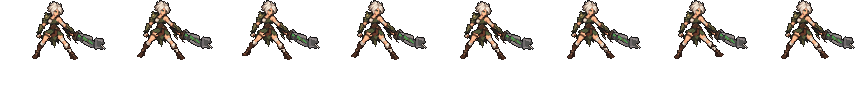
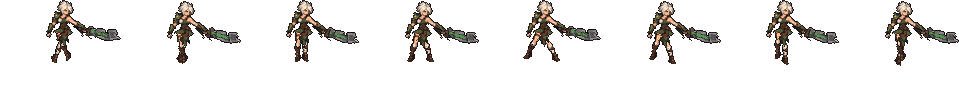
Riven's run after League's: hips under the skirt, a scissor stride of whole straight legs
The user: 「锐雯走路姿势不对啊」 - the round-2 run kept her wide idle stance with the legs barely turned. Now (League's run
rendered by tools/lol/native_pose.py as the guide): her hips brought 3 columns in each under her skirt, each leg (one
rigid piece from the picture) turned straight down and swung 24 degrees forward / back from its hip, the near leg
forward in frames 1-2 and back in 5-6, the far one the other way; the leg swinging forward lifted (its top under the
skirt), the body down as the stride opens, the upper body leaning 2 columns ahead, the blade held low and level ahead.
Riven only; ppu_hd --check OK; no loose pieces.

diff --git a/tools/art/rig_riven_hd.py b/tools/art/rig_riven_hd.py
@@ -40,10 +40,20 @@ BAND = 41                                    # legs start below this row
 # knee - a thigh and a lower leg turned apart - the knee showed a step). (hip, knee, sole) in design squares
 NEAR = ((15.5, 33.2), (9, 44.2), (3.5, 58.8))
 FAR = ((27.5, 34.5), (34.5, 45.5), (42, 59.3))
-# the run: her wide stance kept, a foot at a time swung out and up about its hip (the back foot kicking back, the front
-# one reaching forward), the body down a row as it lands; degrees (counter-clockwise on screen) of the near / far leg
-WALK = [(0, 0), (-5, 0), (-10, 0), (-5, 0), (0, 0), (0, 5), (0, 10), (0, 5)]
-RUN_BOB = [1, 0, 0, 0, 1, 0, 0, 0]
+# the run after League's (tools/lol/native_pose.py assets/source/riven/poses.json run; 「锐雯走路姿势不对啊」 - her
+# wide stance kept, the legs barely moved): her hips brought together under her skirt (she turns side-on to run) and
+# each straight leg swung forward and back as a whole from its hip - a scissor stride, the near leg forward in frames
+# 1-2 and back in 5-6, the far leg the other way, crossing just under the hem like a side view's. The leg swinging
+# forward is lifted (its top goes up under her skirt), the body comes down as the stride opens so the planted feet stay
+# on the ground, the blade held low ahead as League's. Degrees past straight down (counter-clockwise on screen = the
+# foot forward); the far leg's are the near leg's negated
+RUN_NEAR = [24, 13, 0, -13, -24, -13, 0, 13]
+NEAR_LIFT = [0, 0, 0, 0, 0, 2, 3, 2]
+FAR_LIFT = [0, 2, 3, 2, 0, 0, 0, 0]
+RUN_HIPS = (3, -3)                           # columns the near / far leg moves in under her skirt
+RUN_LEAN = 2                                 # columns her upper body leans ahead of her hips
+LEG_LEN = 26.0                               # hip to sole, design squares
+RUN_SWORD = [26, 24, 22, 24, 26, 24, 22, 24]
 
 
 def vertical(leg):
@@ -113,26 +123,31 @@ def make_rig(D):
     return R.Rig(D)
 
 
-def pose(rig, up=(0, 0), sword=0, whole=(0, 0), near=0, far=0, green=False):
+def pose(rig, up=(0, 0), sword=0, whole=(0, 0), near=0, far=0, green=False, lift=(0, 0), hips=(0, 0), lean=0):
     """up: the upper body moved - sideways with her hips and legs (a lunge slides her feet), down at most a row over
     them (breath; lower, the body sank into the legs); sword: degrees the sword arm turns about her shoulder
     (counter-clockwise raises it); whole: the whole figure; near / far: degrees a leg turns about its hip
-    (counter-clockwise on screen); green: the reforged blade."""
+    (counter-clockwise on screen); green: the reforged blade; lift: rows the near / far leg goes up (its top under
+    her skirt); hips: columns the near / far leg moves sideways under her skirt; lean: columns the upper body moves
+    ahead of the hips (the legs' tops stay under the skirt)."""
     D = rig.D
     wx, wy = whole[0] + up[0], whole[1]
     layers = []
-    for name, leg, ang in (("f", FAR, far), ("n", NEAR, near)):
+    for name, leg, ang, up_, hx in (("f", FAR, far, lift[1], hips[1]), ("n", NEAR, near, lift[0], hips[0])):
         for piece in ("_thigh", "_lower"):
-            layers.append((name + piece, dict(dx=wx, dy=wy, angle=ang, about=leg[0])))
-    ux, uy = wx, wy + min(up[1], 1)
+            layers.append((name + piece, dict(dx=wx + hx, dy=wy - up_, angle=ang, about=leg[0])))
+    ux, uy = wx + lean, wy + min(up[1], 1)
     layers.append(("upper", dict(dx=ux, dy=uy)))
     layers.append(("sword", dict(dx=ux, dy=uy, angle=sword, about=SHOULDER, src=D.green if green else None)))
     return R.compose(rig, layers)
 
 
 def run_frame(rig, i):
-    n, f = WALK[i]
-    return pose(rig, up=(1, RUN_BOB[i]), sword=15, near=n, far=f)
+    n, f = RUN_NEAR[i], -RUN_NEAR[i]
+    drop = int(round(LEG_LEN * (1 - np.cos(np.radians(abs(n))))))
+    return pose(rig, up=(1, 0), whole=(0, drop), sword=RUN_SWORD[i], near=vertical(NEAR) + n,
+                far=vertical(FAR) + f, lift=(NEAR_LIFT[i], FAR_LIFT[i]), hips=RUN_HIPS,
+                lean=RUN_LEAN)
 
 
 def lying(rig, sword=123):
